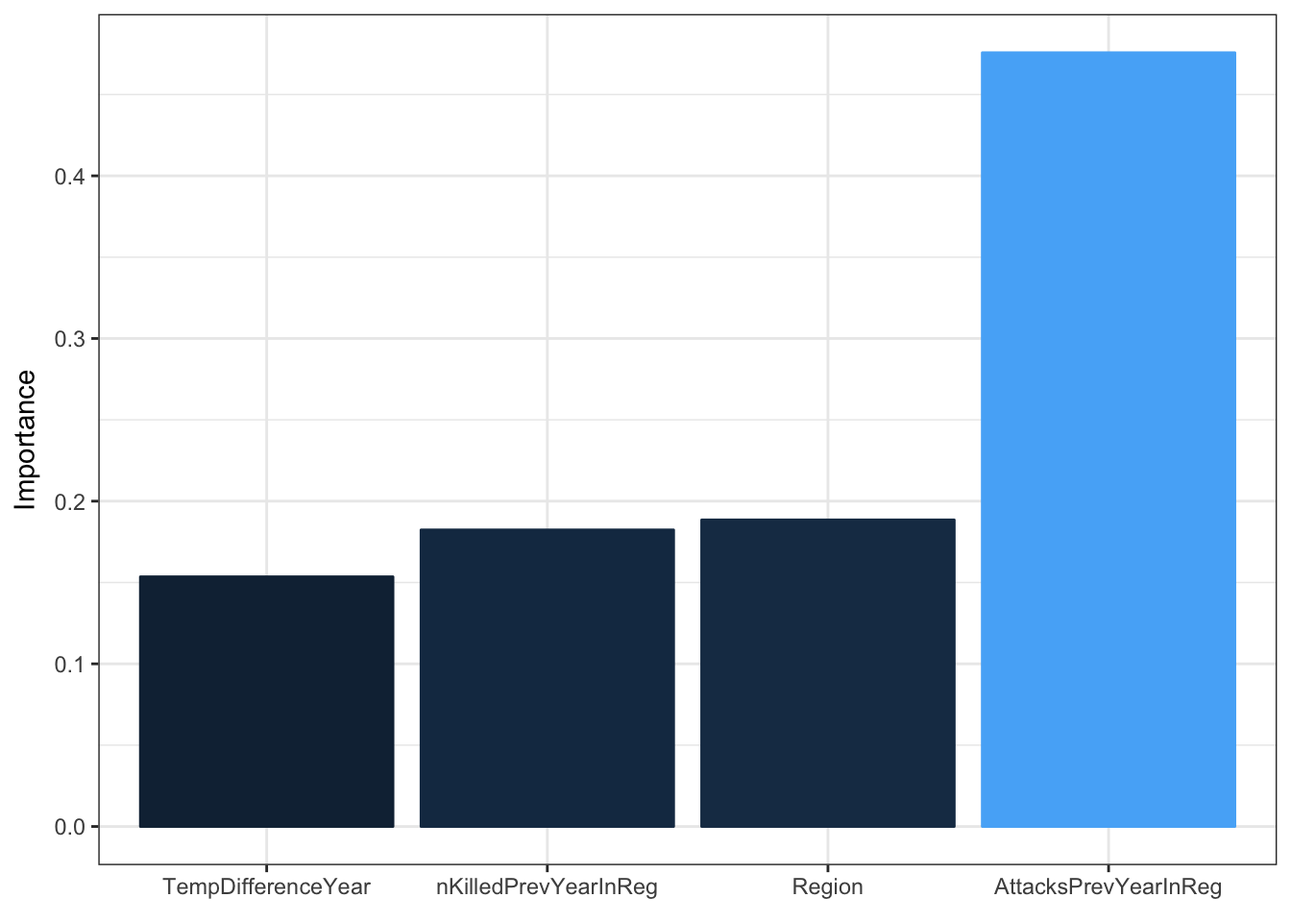
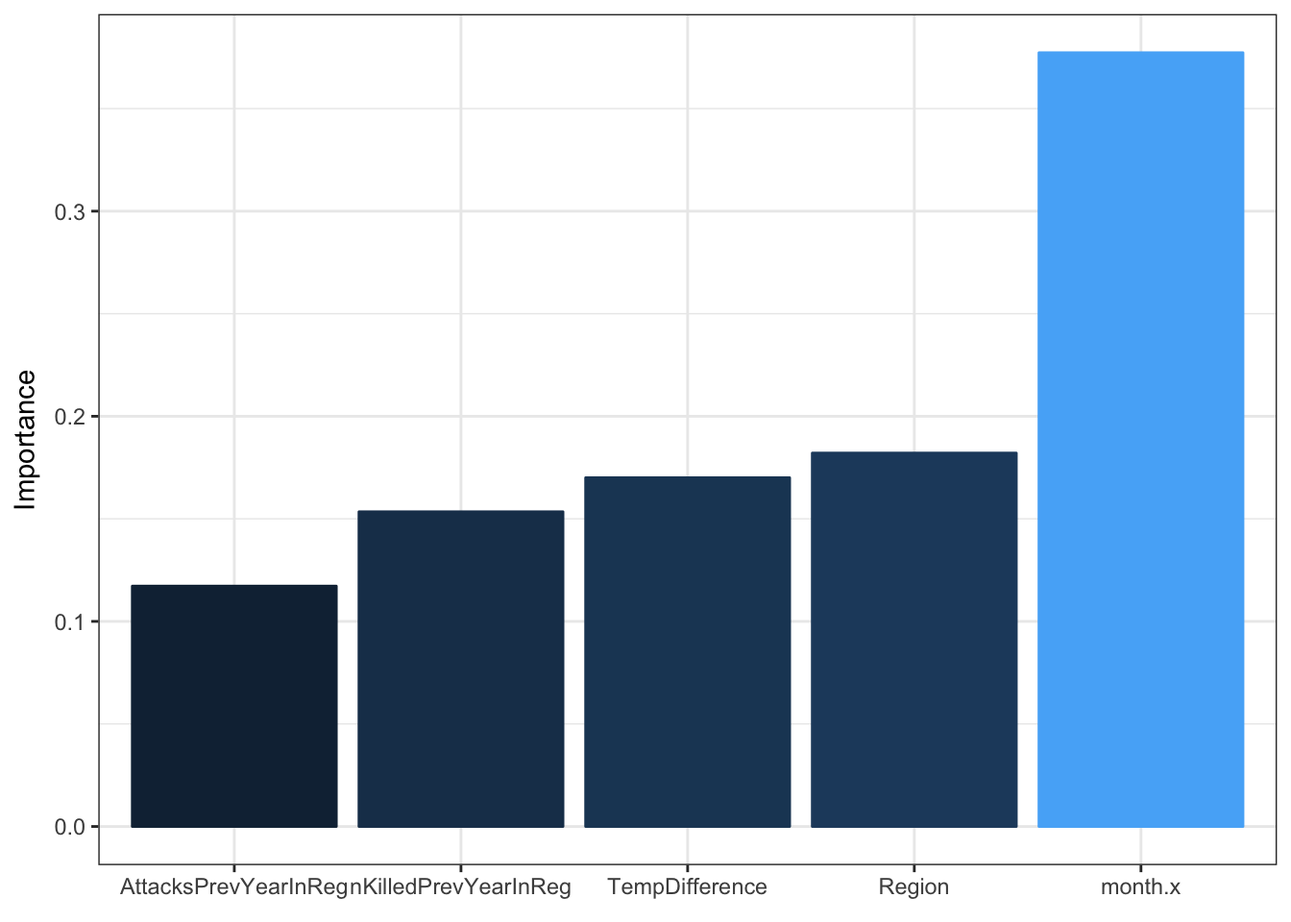
html update

diff --git a/MasterData.html b/MasterData.html
@@ -184,7 +184,7 @@ $(document).ready(function () {
     <div id="navbar" class="navbar-collapse collapse">
       <ul class="nav navbar-nav">
         <li>
-  <a href="index.html">About</a>
+  <a href="index.html">Project</a>
 </li>
 <li>
   <a href="MasterData.html">Analysis</a>
@@ -286,8 +286,8 @@ p1 &lt;- plot_geo(deathViz, locationmode = &#39;USA-states&#39;) %&gt;%
   )
  
 p1</code></pre>
-<div id="11a057c0f702f" style="width:672px;height:480px;" class="plotly html-widget"></div>
-<script type="application/json" data-for="11a057c0f702f">{"x":{"visdat":{"11a05d07d097":["function () ","plotlyVisDat"]},"cur_data":"11a05d07d097","attrs":{"11a05d07d097":{"locationmode":"USA-states","alpha":1,"sizes":[10,100],"z":{},"text":{},"locations":{},"color":{},"colors":"Reds"}},"layout":{"margin":{"b":40,"l":60,"t":25,"r":10},"mapType":"geo","scene":{"zaxis":{"title":"totalKilled"}},"geo":{"domain":{"x":[0,1],"y":[0,1]},"scope":"usa","projection":{"type":"albers usa"},"showlakes":true,"lakecolor":"rgba(255,255,255,1)"},"hovermode":"closest","showlegend":false,"legend":{"y":0.5,"yanchor":"top"},"title":"Deaths From Terrorist Attacks Since 1970"},"source":"A","config":{"modeBarButtonsToAdd":[{"name":"Collaborate","icon":{"width":1000,"ascent":500,"descent":-50,"path":"M487 375c7-10 9-23 5-36l-79-259c-3-12-11-23-22-31-11-8-22-12-35-12l-263 0c-15 0-29 5-43 15-13 10-23 23-28 37-5 13-5 25-1 37 0 0 0 3 1 7 1 5 1 8 1 11 0 2 0 4-1 6 0 3-1 5-1 6 1 2 2 4 3 6 1 2 2 4 4 6 2 3 4 5 5 7 5 7 9 16 13 26 4 10 7 19 9 26 0 2 0 5 0 9-1 4-1 6 0 8 0 2 2 5 4 8 3 3 5 5 5 7 4 6 8 15 12 26 4 11 7 19 7 26 1 1 0 4 0 9-1 4-1 7 0 8 1 2 3 5 6 8 4 4 6 6 6 7 4 5 8 13 13 24 4 11 7 20 7 28 1 1 0 4 0 7-1 3-1 6-1 7 0 2 1 4 3 6 1 1 3 4 5 6 2 3 3 5 5 6 1 2 3 5 4 9 2 3 3 7 5 10 1 3 2 6 4 10 2 4 4 7 6 9 2 3 4 5 7 7 3 2 7 3 11 3 3 0 8 0 13-1l0-1c7 2 12 2 14 2l218 0c14 0 25-5 32-16 8-10 10-23 6-37l-79-259c-7-22-13-37-20-43-7-7-19-10-37-10l-248 0c-5 0-9-2-11-5-2-3-2-7 0-12 4-13 18-20 41-20l264 0c5 0 10 2 16 5 5 3 8 6 10 11l85 282c2 5 2 10 2 17 7-3 13-7 17-13z m-304 0c-1-3-1-5 0-7 1-1 3-2 6-2l174 0c2 0 4 1 7 2 2 2 4 4 5 7l6 18c0 3 0 5-1 7-1 1-3 2-6 2l-173 0c-3 0-5-1-8-2-2-2-4-4-4-7z m-24-73c-1-3-1-5 0-7 2-2 3-2 6-2l174 0c2 0 5 0 7 2 3 2 4 4 5 7l6 18c1 2 0 5-1 6-1 2-3 3-5 3l-174 0c-3 0-5-1-7-3-3-1-4-4-5-6z"},"click":"function(gd) { \n        // is this being viewed in RStudio?\n        if (location.search == '?viewer_pane=1') {\n          alert('To learn about plotly for collaboration, visit:\\n https://cpsievert.github.io/plotly_book/plot-ly-for-collaboration.html');\n        } else {\n          window.open('https://cpsievert.github.io/plotly_book/plot-ly-for-collaboration.html', '_blank');\n        }\n      }"}],"cloud":false},"data":[{"colorbar":{"title":"Deaths","ticklen":2,"len":0.5,"y":1,"lenmode":"fraction","yanchor":"top"},"colorscale":[["0","rgba(255,245,240,1)"],["0.000354233085370174","rgba(255,245,240,1)"],["0.000708466170740347","rgba(255,245,240,1)"],["0.00141693234148069","rgba(255,245,240,1)"],["0.00177116542685087","rgba(255,245,240,1)"],["0.00212539851222104","rgba(255,245,239,1)"],["0.00247963159759122","rgba(255,245,239,1)"],["0.00283386468296139","rgba(255,245,239,1)"],["0.00318809776833156","rgba(255,244,239,1)"],["0.00389656393907191","rgba(255,244,239,1)"],["0.00425079702444208","rgba(255,244,239,1)"],["0.00637619553666312","rgba(255,244,238,1)"],["0.0152320226709175","rgba(255,242,236,1)"],["0.0226709174636911","rgba(255,241,235,1)"],["0.0602196245129295","rgba(255,235,225,1)"],["1","rgba(103,0,13,1)"]],"showscale":true,"locationmode":"USA-states","z":[5,4,2,79,21,2,0,17,64,7,0,6,4,0,4,0,18,0,8,12,5,2,1,2,0,1,6,0,11,0,2823,9,2,8,170,0,51,0,9,2,12,43,3,0,196,6,0,8,0],"text":["Alabama <br> Number Killed 5","Arizona <br> Number Killed 4","Arkansas <br> Number Killed 2","California <br> Number Killed 79","Colorado <br> Number Killed 21","Connecticut <br> Number Killed 2","Delaware <br> Number Killed 0","District of Columbia <br> Number Killed 17","Florida <br> Number Killed 64","Georgia <br> Number Killed 7","Idaho <br> Number Killed 0","Illinois <br> Number Killed 6","Indiana <br> Number Killed 4","Iowa <br> Number Killed 0","Kansas <br> Number Killed 4","Kentucky <br> Number Killed 0","Louisiana <br> Number Killed 18","Maine <br> Number Killed 0","Maryland <br> Number Killed 8","Massachusetts <br> Number Killed 12","Michigan <br> Number Killed 5","Minnesota <br> Number Killed 2","Mississippi <br> Number Killed 1","Missouri <br> Number Killed 2","Montana <br> Number Killed 0","Nebraska <br> Number Killed 1","Nevada <br> Number Killed 6","New Hampshire <br> Number Killed 0","New Jersey <br> Number Killed 11","New Mexico <br> Number Killed 0","New York <br> Number Killed 2823","North Carolina <br> Number Killed 9","North Dakota <br> Number Killed 2","Ohio <br> Number Killed 8","Oklahoma <br> Number Killed 170","Oregon <br> Number Killed 0","Pennsylvania <br> Number Killed 51","Rhode Island <br> Number Killed 0","South Carolina <br> Number Killed 9","South Dakota <br> Number Killed 2","Tennessee <br> Number Killed 12","Texas <br> Number Killed 43","Utah <br> Number Killed 3","Vermont <br> Number Killed 0","Virginia <br> Number Killed 196","Washington <br> Number Killed 6","West Virginia <br> Number Killed 0","Wisconsin <br> Number Killed 8","Wyoming <br> Number Killed 0"],"locations":["AL","AZ","AR","CA","CO","CT","DE",null,"FL","GA","ID","IL","IN","IA","KS","KY","LA","ME","MD","MA","MI","MN","MS","MO","MT","NE","NV","NH","NJ","NM","NY","NC","ND","OH","OK","OR","PA","RI","SC","SD","TN","TX","UT","VT","VA","WA","WV","WI","WY"],"type":"choropleth","geo":"geo","frame":null}],"highlight":{"on":"plotly_click","persistent":false,"dynamic":false,"selectize":false,"opacityDim":0.2,"selected":{"opacity":1}},"base_url":"https://plot.ly"},"evals":["config.modeBarButtonsToAdd.0.click"],"jsHooks":{"render":[{"code":"function(el, x) { var ctConfig = crosstalk.var('plotlyCrosstalkOpts').set({\"on\":\"plotly_click\",\"persistent\":false,\"dynamic\":false,\"selectize\":false,\"opacityDim\":0.2,\"selected\":{\"opacity\":1}}); }","data":null},{"code":"function(el, x) { var ctConfig = crosstalk.var('plotlyCrosstalkOpts').set({\"on\":\"plotly_click\",\"persistent\":false,\"dynamic\":false,\"selectize\":false,\"opacityDim\":0.2,\"selected\":{\"opacity\":1}}); }","data":null}]}}</script>
+<div id="2b34e7209cb" style="width:672px;height:480px;" class="plotly html-widget"></div>
+<script type="application/json" data-for="2b34e7209cb">{"x":{"visdat":{"2b33307f149":["function () ","plotlyVisDat"]},"cur_data":"2b33307f149","attrs":{"2b33307f149":{"locationmode":"USA-states","alpha":1,"sizes":[10,100],"z":{},"text":{},"locations":{},"color":{},"colors":"Reds"}},"layout":{"margin":{"b":40,"l":60,"t":25,"r":10},"mapType":"geo","scene":{"zaxis":{"title":"totalKilled"}},"geo":{"domain":{"x":[0,1],"y":[0,1]},"scope":"usa","projection":{"type":"albers usa"},"showlakes":true,"lakecolor":"rgba(255,255,255,1)"},"hovermode":"closest","showlegend":false,"legend":{"y":0.5,"yanchor":"top"},"title":"Deaths From Terrorist Attacks Since 1970"},"source":"A","config":{"modeBarButtonsToAdd":[{"name":"Collaborate","icon":{"width":1000,"ascent":500,"descent":-50,"path":"M487 375c7-10 9-23 5-36l-79-259c-3-12-11-23-22-31-11-8-22-12-35-12l-263 0c-15 0-29 5-43 15-13 10-23 23-28 37-5 13-5 25-1 37 0 0 0 3 1 7 1 5 1 8 1 11 0 2 0 4-1 6 0 3-1 5-1 6 1 2 2 4 3 6 1 2 2 4 4 6 2 3 4 5 5 7 5 7 9 16 13 26 4 10 7 19 9 26 0 2 0 5 0 9-1 4-1 6 0 8 0 2 2 5 4 8 3 3 5 5 5 7 4 6 8 15 12 26 4 11 7 19 7 26 1 1 0 4 0 9-1 4-1 7 0 8 1 2 3 5 6 8 4 4 6 6 6 7 4 5 8 13 13 24 4 11 7 20 7 28 1 1 0 4 0 7-1 3-1 6-1 7 0 2 1 4 3 6 1 1 3 4 5 6 2 3 3 5 5 6 1 2 3 5 4 9 2 3 3 7 5 10 1 3 2 6 4 10 2 4 4 7 6 9 2 3 4 5 7 7 3 2 7 3 11 3 3 0 8 0 13-1l0-1c7 2 12 2 14 2l218 0c14 0 25-5 32-16 8-10 10-23 6-37l-79-259c-7-22-13-37-20-43-7-7-19-10-37-10l-248 0c-5 0-9-2-11-5-2-3-2-7 0-12 4-13 18-20 41-20l264 0c5 0 10 2 16 5 5 3 8 6 10 11l85 282c2 5 2 10 2 17 7-3 13-7 17-13z m-304 0c-1-3-1-5 0-7 1-1 3-2 6-2l174 0c2 0 4 1 7 2 2 2 4 4 5 7l6 18c0 3 0 5-1 7-1 1-3 2-6 2l-173 0c-3 0-5-1-8-2-2-2-4-4-4-7z m-24-73c-1-3-1-5 0-7 2-2 3-2 6-2l174 0c2 0 5 0 7 2 3 2 4 4 5 7l6 18c1 2 0 5-1 6-1 2-3 3-5 3l-174 0c-3 0-5-1-7-3-3-1-4-4-5-6z"},"click":"function(gd) { \n        // is this being viewed in RStudio?\n        if (location.search == '?viewer_pane=1') {\n          alert('To learn about plotly for collaboration, visit:\\n https://cpsievert.github.io/plotly_book/plot-ly-for-collaboration.html');\n        } else {\n          window.open('https://cpsievert.github.io/plotly_book/plot-ly-for-collaboration.html', '_blank');\n        }\n      }"}],"cloud":false},"data":[{"colorbar":{"title":"Deaths","ticklen":2,"len":0.5,"y":1,"lenmode":"fraction","yanchor":"top"},"colorscale":[["0","rgba(255,245,240,1)"],["0.000354233085370174","rgba(255,245,240,1)"],["0.000708466170740347","rgba(255,245,240,1)"],["0.00141693234148069","rgba(255,245,240,1)"],["0.00177116542685087","rgba(255,245,240,1)"],["0.00212539851222104","rgba(255,245,239,1)"],["0.00247963159759122","rgba(255,245,239,1)"],["0.00283386468296139","rgba(255,245,239,1)"],["0.00318809776833156","rgba(255,244,239,1)"],["0.00389656393907191","rgba(255,244,239,1)"],["0.00425079702444208","rgba(255,244,239,1)"],["0.00637619553666312","rgba(255,244,238,1)"],["0.0152320226709175","rgba(255,242,236,1)"],["0.0226709174636911","rgba(255,241,235,1)"],["0.0602196245129295","rgba(255,235,225,1)"],["1","rgba(103,0,13,1)"]],"showscale":true,"locationmode":"USA-states","z":[5,4,2,79,21,2,0,17,64,7,0,6,4,0,4,0,18,0,8,12,5,2,1,2,0,1,6,0,11,0,2823,9,2,8,170,0,51,0,9,2,12,43,3,0,196,6,0,8,0],"text":["Alabama <br> Number Killed 5","Arizona <br> Number Killed 4","Arkansas <br> Number Killed 2","California <br> Number Killed 79","Colorado <br> Number Killed 21","Connecticut <br> Number Killed 2","Delaware <br> Number Killed 0","District of Columbia <br> Number Killed 17","Florida <br> Number Killed 64","Georgia <br> Number Killed 7","Idaho <br> Number Killed 0","Illinois <br> Number Killed 6","Indiana <br> Number Killed 4","Iowa <br> Number Killed 0","Kansas <br> Number Killed 4","Kentucky <br> Number Killed 0","Louisiana <br> Number Killed 18","Maine <br> Number Killed 0","Maryland <br> Number Killed 8","Massachusetts <br> Number Killed 12","Michigan <br> Number Killed 5","Minnesota <br> Number Killed 2","Mississippi <br> Number Killed 1","Missouri <br> Number Killed 2","Montana <br> Number Killed 0","Nebraska <br> Number Killed 1","Nevada <br> Number Killed 6","New Hampshire <br> Number Killed 0","New Jersey <br> Number Killed 11","New Mexico <br> Number Killed 0","New York <br> Number Killed 2823","North Carolina <br> Number Killed 9","North Dakota <br> Number Killed 2","Ohio <br> Number Killed 8","Oklahoma <br> Number Killed 170","Oregon <br> Number Killed 0","Pennsylvania <br> Number Killed 51","Rhode Island <br> Number Killed 0","South Carolina <br> Number Killed 9","South Dakota <br> Number Killed 2","Tennessee <br> Number Killed 12","Texas <br> Number Killed 43","Utah <br> Number Killed 3","Vermont <br> Number Killed 0","Virginia <br> Number Killed 196","Washington <br> Number Killed 6","West Virginia <br> Number Killed 0","Wisconsin <br> Number Killed 8","Wyoming <br> Number Killed 0"],"locations":["AL","AZ","AR","CA","CO","CT","DE",null,"FL","GA","ID","IL","IN","IA","KS","KY","LA","ME","MD","MA","MI","MN","MS","MO","MT","NE","NV","NH","NJ","NM","NY","NC","ND","OH","OK","OR","PA","RI","SC","SD","TN","TX","UT","VT","VA","WA","WV","WI","WY"],"type":"choropleth","geo":"geo","frame":null}],"highlight":{"on":"plotly_click","persistent":false,"dynamic":false,"selectize":false,"opacityDim":0.2,"selected":{"opacity":1}},"base_url":"https://plot.ly"},"evals":["config.modeBarButtonsToAdd.0.click"],"jsHooks":{"render":[{"code":"function(el, x) { var ctConfig = crosstalk.var('plotlyCrosstalkOpts').set({\"on\":\"plotly_click\",\"persistent\":false,\"dynamic\":false,\"selectize\":false,\"opacityDim\":0.2,\"selected\":{\"opacity\":1}}); }","data":null},{"code":"function(el, x) { var ctConfig = crosstalk.var('plotlyCrosstalkOpts').set({\"on\":\"plotly_click\",\"persistent\":false,\"dynamic\":false,\"selectize\":false,\"opacityDim\":0.2,\"selected\":{\"opacity\":1}}); }","data":null}]}}</script>
 <pre class="r"><code>deathVizNoNy &lt;- usaTerrorismData %&gt;%                         # Create dataset to visualize          
   filter(provstate != &quot;Puerto Rico&quot;) %&gt;%                     # Remove Puerto Rico
   filter(provstate != &quot;Alaska&quot;) %&gt;%                          # Remove Alaska
@@ -315,8 +315,8 @@ p2 &lt;- plot_geo(deathVizNoNy, locationmode = &#39;USA-states&#39;) %&gt;%
   )
  
 p2</code></pre>
-<div id="11a05401ff43c" style="width:672px;height:480px;" class="plotly html-widget"></div>
-<script type="application/json" data-for="11a05401ff43c">{"x":{"visdat":{"11a0543ec142a":["function () ","plotlyVisDat"]},"cur_data":"11a0543ec142a","attrs":{"11a0543ec142a":{"locationmode":"USA-states","alpha":1,"sizes":[10,100],"z":{},"text":{},"locations":{},"color":{},"colors":"Reds"}},"layout":{"margin":{"b":40,"l":60,"t":25,"r":10},"mapType":"geo","scene":{"zaxis":{"title":"totalKilled"}},"geo":{"domain":{"x":[0,1],"y":[0,1]},"scope":"usa","projection":{"type":"albers usa"},"showlakes":true,"lakecolor":"rgba(255,255,255,1)"},"hovermode":"closest","showlegend":false,"legend":{"y":0.5,"yanchor":"top"},"title":"Deaths From Terrorist Attacks Since 1970 Excluding New York"},"source":"A","config":{"modeBarButtonsToAdd":[{"name":"Collaborate","icon":{"width":1000,"ascent":500,"descent":-50,"path":"M487 375c7-10 9-23 5-36l-79-259c-3-12-11-23-22-31-11-8-22-12-35-12l-263 0c-15 0-29 5-43 15-13 10-23 23-28 37-5 13-5 25-1 37 0 0 0 3 1 7 1 5 1 8 1 11 0 2 0 4-1 6 0 3-1 5-1 6 1 2 2 4 3 6 1 2 2 4 4 6 2 3 4 5 5 7 5 7 9 16 13 26 4 10 7 19 9 26 0 2 0 5 0 9-1 4-1 6 0 8 0 2 2 5 4 8 3 3 5 5 5 7 4 6 8 15 12 26 4 11 7 19 7 26 1 1 0 4 0 9-1 4-1 7 0 8 1 2 3 5 6 8 4 4 6 6 6 7 4 5 8 13 13 24 4 11 7 20 7 28 1 1 0 4 0 7-1 3-1 6-1 7 0 2 1 4 3 6 1 1 3 4 5 6 2 3 3 5 5 6 1 2 3 5 4 9 2 3 3 7 5 10 1 3 2 6 4 10 2 4 4 7 6 9 2 3 4 5 7 7 3 2 7 3 11 3 3 0 8 0 13-1l0-1c7 2 12 2 14 2l218 0c14 0 25-5 32-16 8-10 10-23 6-37l-79-259c-7-22-13-37-20-43-7-7-19-10-37-10l-248 0c-5 0-9-2-11-5-2-3-2-7 0-12 4-13 18-20 41-20l264 0c5 0 10 2 16 5 5 3 8 6 10 11l85 282c2 5 2 10 2 17 7-3 13-7 17-13z m-304 0c-1-3-1-5 0-7 1-1 3-2 6-2l174 0c2 0 4 1 7 2 2 2 4 4 5 7l6 18c0 3 0 5-1 7-1 1-3 2-6 2l-173 0c-3 0-5-1-8-2-2-2-4-4-4-7z m-24-73c-1-3-1-5 0-7 2-2 3-2 6-2l174 0c2 0 5 0 7 2 3 2 4 4 5 7l6 18c1 2 0 5-1 6-1 2-3 3-5 3l-174 0c-3 0-5-1-7-3-3-1-4-4-5-6z"},"click":"function(gd) { \n        // is this being viewed in RStudio?\n        if (location.search == '?viewer_pane=1') {\n          alert('To learn about plotly for collaboration, visit:\\n https://cpsievert.github.io/plotly_book/plot-ly-for-collaboration.html');\n        } else {\n          window.open('https://cpsievert.github.io/plotly_book/plot-ly-for-collaboration.html', '_blank');\n        }\n      }"}],"cloud":false},"data":[{"colorbar":{"title":"Deaths","ticklen":2,"len":0.5,"y":1,"lenmode":"fraction","yanchor":"top"},"colorscale":[["0","rgba(255,245,240,1)"],["0.00510204081632653","rgba(255,244,239,1)"],["0.0102040816326531","rgba(255,243,238,1)"],["0.0180697278911565","rgba(255,242,236,1)"],["0.0204081632653061","rgba(255,242,235,1)"],["0.0255102040816327","rgba(255,241,234,1)"],["0.0306122448979592","rgba(255,240,233,1)"],["0.0325255102040816","rgba(255,240,232,1)"],["0.0408163265306122","rgba(255,238,230,1)"],["0.0423044217687075","rgba(255,238,230,1)"],["0.048469387755102","rgba(255,237,228,1)"],["0.0612244897959184","rgba(255,235,225,1)"],["0.0875850340136054","rgba(254,230,219,1)"],["0.121173469387755","rgba(254,225,211,1)"],["0.265731292517007","rgba(252,182,155,1)"],["0.422406462585033","rgba(252,131,99,1)"],["1","rgba(103,0,13,1)"]],"showscale":true,"locationmode":"USA-states","z":[5,4,2,79,21,2,0,17,64,7,0,6,4,0,4,0,18,0,8,12,5,2,1,2,0,1,6,0,11,0,9,2,8,170,0,51,0,9,2,12,43,3,0,196,6,0,8,0],"text":["Alabama <br> Number Killed 5","Arizona <br> Number Killed 4","Arkansas <br> Number Killed 2","California <br> Number Killed 79","Colorado <br> Number Killed 21","Connecticut <br> Number Killed 2","Delaware <br> Number Killed 0","District of Columbia <br> Number Killed 17","Florida <br> Number Killed 64","Georgia <br> Number Killed 7","Idaho <br> Number Killed 0","Illinois <br> Number Killed 6","Indiana <br> Number Killed 4","Iowa <br> Number Killed 0","Kansas <br> Number Killed 4","Kentucky <br> Number Killed 0","Louisiana <br> Number Killed 18","Maine <br> Number Killed 0","Maryland <br> Number Killed 8","Massachusetts <br> Number Killed 12","Michigan <br> Number Killed 5","Minnesota <br> Number Killed 2","Mississippi <br> Number Killed 1","Missouri <br> Number Killed 2","Montana <br> Number Killed 0","Nebraska <br> Number Killed 1","Nevada <br> Number Killed 6","New Hampshire <br> Number Killed 0","New Jersey <br> Number Killed 11","New Mexico <br> Number Killed 0","North Carolina <br> Number Killed 9","North Dakota <br> Number Killed 2","Ohio <br> Number Killed 8","Oklahoma <br> Number Killed 170","Oregon <br> Number Killed 0","Pennsylvania <br> Number Killed 51","Rhode Island <br> Number Killed 0","South Carolina <br> Number Killed 9","South Dakota <br> Number Killed 2","Tennessee <br> Number Killed 12","Texas <br> Number Killed 43","Utah <br> Number Killed 3","Vermont <br> Number Killed 0","Virginia <br> Number Killed 196","Washington <br> Number Killed 6","West Virginia <br> Number Killed 0","Wisconsin <br> Number Killed 8","Wyoming <br> Number Killed 0"],"locations":["AL","AZ","AR","CA","CO","CT","DE",null,"FL","GA","ID","IL","IN","IA","KS","KY","LA","ME","MD","MA","MI","MN","MS","MO","MT","NE","NV","NH","NJ","NM","NC","ND","OH","OK","OR","PA","RI","SC","SD","TN","TX","UT","VT","VA","WA","WV","WI","WY"],"type":"choropleth","geo":"geo","frame":null}],"highlight":{"on":"plotly_click","persistent":false,"dynamic":false,"selectize":false,"opacityDim":0.2,"selected":{"opacity":1}},"base_url":"https://plot.ly"},"evals":["config.modeBarButtonsToAdd.0.click"],"jsHooks":{"render":[{"code":"function(el, x) { var ctConfig = crosstalk.var('plotlyCrosstalkOpts').set({\"on\":\"plotly_click\",\"persistent\":false,\"dynamic\":false,\"selectize\":false,\"opacityDim\":0.2,\"selected\":{\"opacity\":1}}); }","data":null},{"code":"function(el, x) { var ctConfig = crosstalk.var('plotlyCrosstalkOpts').set({\"on\":\"plotly_click\",\"persistent\":false,\"dynamic\":false,\"selectize\":false,\"opacityDim\":0.2,\"selected\":{\"opacity\":1}}); }","data":null}]}}</script>
+<div id="2b3508f2368" style="width:672px;height:480px;" class="plotly html-widget"></div>
+<script type="application/json" data-for="2b3508f2368">{"x":{"visdat":{"2b345acc074":["function () ","plotlyVisDat"]},"cur_data":"2b345acc074","attrs":{"2b345acc074":{"locationmode":"USA-states","alpha":1,"sizes":[10,100],"z":{},"text":{},"locations":{},"color":{},"colors":"Reds"}},"layout":{"margin":{"b":40,"l":60,"t":25,"r":10},"mapType":"geo","scene":{"zaxis":{"title":"totalKilled"}},"geo":{"domain":{"x":[0,1],"y":[0,1]},"scope":"usa","projection":{"type":"albers usa"},"showlakes":true,"lakecolor":"rgba(255,255,255,1)"},"hovermode":"closest","showlegend":false,"legend":{"y":0.5,"yanchor":"top"},"title":"Deaths From Terrorist Attacks Since 1970 Excluding New York"},"source":"A","config":{"modeBarButtonsToAdd":[{"name":"Collaborate","icon":{"width":1000,"ascent":500,"descent":-50,"path":"M487 375c7-10 9-23 5-36l-79-259c-3-12-11-23-22-31-11-8-22-12-35-12l-263 0c-15 0-29 5-43 15-13 10-23 23-28 37-5 13-5 25-1 37 0 0 0 3 1 7 1 5 1 8 1 11 0 2 0 4-1 6 0 3-1 5-1 6 1 2 2 4 3 6 1 2 2 4 4 6 2 3 4 5 5 7 5 7 9 16 13 26 4 10 7 19 9 26 0 2 0 5 0 9-1 4-1 6 0 8 0 2 2 5 4 8 3 3 5 5 5 7 4 6 8 15 12 26 4 11 7 19 7 26 1 1 0 4 0 9-1 4-1 7 0 8 1 2 3 5 6 8 4 4 6 6 6 7 4 5 8 13 13 24 4 11 7 20 7 28 1 1 0 4 0 7-1 3-1 6-1 7 0 2 1 4 3 6 1 1 3 4 5 6 2 3 3 5 5 6 1 2 3 5 4 9 2 3 3 7 5 10 1 3 2 6 4 10 2 4 4 7 6 9 2 3 4 5 7 7 3 2 7 3 11 3 3 0 8 0 13-1l0-1c7 2 12 2 14 2l218 0c14 0 25-5 32-16 8-10 10-23 6-37l-79-259c-7-22-13-37-20-43-7-7-19-10-37-10l-248 0c-5 0-9-2-11-5-2-3-2-7 0-12 4-13 18-20 41-20l264 0c5 0 10 2 16 5 5 3 8 6 10 11l85 282c2 5 2 10 2 17 7-3 13-7 17-13z m-304 0c-1-3-1-5 0-7 1-1 3-2 6-2l174 0c2 0 4 1 7 2 2 2 4 4 5 7l6 18c0 3 0 5-1 7-1 1-3 2-6 2l-173 0c-3 0-5-1-8-2-2-2-4-4-4-7z m-24-73c-1-3-1-5 0-7 2-2 3-2 6-2l174 0c2 0 5 0 7 2 3 2 4 4 5 7l6 18c1 2 0 5-1 6-1 2-3 3-5 3l-174 0c-3 0-5-1-7-3-3-1-4-4-5-6z"},"click":"function(gd) { \n        // is this being viewed in RStudio?\n        if (location.search == '?viewer_pane=1') {\n          alert('To learn about plotly for collaboration, visit:\\n https://cpsievert.github.io/plotly_book/plot-ly-for-collaboration.html');\n        } else {\n          window.open('https://cpsievert.github.io/plotly_book/plot-ly-for-collaboration.html', '_blank');\n        }\n      }"}],"cloud":false},"data":[{"colorbar":{"title":"Deaths","ticklen":2,"len":0.5,"y":1,"lenmode":"fraction","yanchor":"top"},"colorscale":[["0","rgba(255,245,240,1)"],["0.00510204081632653","rgba(255,244,239,1)"],["0.0102040816326531","rgba(255,243,238,1)"],["0.0180697278911565","rgba(255,242,236,1)"],["0.0204081632653061","rgba(255,242,235,1)"],["0.0255102040816327","rgba(255,241,234,1)"],["0.0306122448979592","rgba(255,240,233,1)"],["0.0325255102040816","rgba(255,240,232,1)"],["0.0408163265306122","rgba(255,238,230,1)"],["0.0423044217687075","rgba(255,238,230,1)"],["0.048469387755102","rgba(255,237,228,1)"],["0.0612244897959184","rgba(255,235,225,1)"],["0.0875850340136054","rgba(254,230,219,1)"],["0.121173469387755","rgba(254,225,211,1)"],["0.265731292517007","rgba(252,182,155,1)"],["0.422406462585033","rgba(252,131,99,1)"],["1","rgba(103,0,13,1)"]],"showscale":true,"locationmode":"USA-states","z":[5,4,2,79,21,2,0,17,64,7,0,6,4,0,4,0,18,0,8,12,5,2,1,2,0,1,6,0,11,0,9,2,8,170,0,51,0,9,2,12,43,3,0,196,6,0,8,0],"text":["Alabama <br> Number Killed 5","Arizona <br> Number Killed 4","Arkansas <br> Number Killed 2","California <br> Number Killed 79","Colorado <br> Number Killed 21","Connecticut <br> Number Killed 2","Delaware <br> Number Killed 0","District of Columbia <br> Number Killed 17","Florida <br> Number Killed 64","Georgia <br> Number Killed 7","Idaho <br> Number Killed 0","Illinois <br> Number Killed 6","Indiana <br> Number Killed 4","Iowa <br> Number Killed 0","Kansas <br> Number Killed 4","Kentucky <br> Number Killed 0","Louisiana <br> Number Killed 18","Maine <br> Number Killed 0","Maryland <br> Number Killed 8","Massachusetts <br> Number Killed 12","Michigan <br> Number Killed 5","Minnesota <br> Number Killed 2","Mississippi <br> Number Killed 1","Missouri <br> Number Killed 2","Montana <br> Number Killed 0","Nebraska <br> Number Killed 1","Nevada <br> Number Killed 6","New Hampshire <br> Number Killed 0","New Jersey <br> Number Killed 11","New Mexico <br> Number Killed 0","North Carolina <br> Number Killed 9","North Dakota <br> Number Killed 2","Ohio <br> Number Killed 8","Oklahoma <br> Number Killed 170","Oregon <br> Number Killed 0","Pennsylvania <br> Number Killed 51","Rhode Island <br> Number Killed 0","South Carolina <br> Number Killed 9","South Dakota <br> Number Killed 2","Tennessee <br> Number Killed 12","Texas <br> Number Killed 43","Utah <br> Number Killed 3","Vermont <br> Number Killed 0","Virginia <br> Number Killed 196","Washington <br> Number Killed 6","West Virginia <br> Number Killed 0","Wisconsin <br> Number Killed 8","Wyoming <br> Number Killed 0"],"locations":["AL","AZ","AR","CA","CO","CT","DE",null,"FL","GA","ID","IL","IN","IA","KS","KY","LA","ME","MD","MA","MI","MN","MS","MO","MT","NE","NV","NH","NJ","NM","NC","ND","OH","OK","OR","PA","RI","SC","SD","TN","TX","UT","VT","VA","WA","WV","WI","WY"],"type":"choropleth","geo":"geo","frame":null}],"highlight":{"on":"plotly_click","persistent":false,"dynamic":false,"selectize":false,"opacityDim":0.2,"selected":{"opacity":1}},"base_url":"https://plot.ly"},"evals":["config.modeBarButtonsToAdd.0.click"],"jsHooks":{"render":[{"code":"function(el, x) { var ctConfig = crosstalk.var('plotlyCrosstalkOpts').set({\"on\":\"plotly_click\",\"persistent\":false,\"dynamic\":false,\"selectize\":false,\"opacityDim\":0.2,\"selected\":{\"opacity\":1}}); }","data":null},{"code":"function(el, x) { var ctConfig = crosstalk.var('plotlyCrosstalkOpts').set({\"on\":\"plotly_click\",\"persistent\":false,\"dynamic\":false,\"selectize\":false,\"opacityDim\":0.2,\"selected\":{\"opacity\":1}}); }","data":null}]}}</script>
 <p>Now we will make an even more interactive visualization</p>
 <pre class="r"><code>interactiveViz &lt;- usaTerrorismData %&gt;%                        # Create dataset to visualize          
   filter(provstate != &quot;Puerto Rico&quot;) %&gt;%                     # Remove Puerto Rico
@@ -399,6 +399,13 @@ server &lt;- function(input, output, session) {
 
 shinyApp(ui, server)</code></pre>
 <div style="width: 100% ; height: 400px ; text-align: center; box-sizing: border-box; -moz-box-sizing: border-box; -webkit-box-sizing: border-box;" class="muted well">Shiny applications not supported in static R Markdown documents</div>
+<html>
+	<body>
+		<div>
+			<iframe id="example1" src="https://gallery.shinyapps.io/goog-trend-index/" style="border: none; width: 100%; height: 850px" frameborder="0"></iframe>
+		</div>
+	</body>
+<html>
 <p>Now we must clean our master data for a neural network. This includes filtering out insignificant or unnecessary variables (both categorical and some numerical). We must also check to make sure our data frame contains no missing (na) values.</p>
 <pre class="r"><code>## First check to make sure we do not have any missing values in our data frame.
 ## Uncomment below to run and display the check.
@@ -431,6 +438,25 @@ neuralNet &lt;-neuralnet(isAttack~month.x+Region+TempDifference+
 plot(neuralNet)                                                                ## Plot the neural network
 
 plot.nnet(neuralNet, cex.val = 0.5)                                            ## Plot the neural network with a nicer library</code></pre>
+<pre><code>## Loading required package: scales</code></pre>
+<pre><code>## Loading required package: reshape</code></pre>
+<pre><code>## 
+## Attaching package: &#39;reshape&#39;</code></pre>
+<pre><code>## The following object is masked from &#39;package:plotly&#39;:
+## 
+##     rename</code></pre>
+<pre><code>## The following objects are masked from &#39;package:tidyr&#39;:
+## 
+##     expand, smiths</code></pre>
+<pre><code>## The following object is masked from &#39;package:dplyr&#39;:
+## 
+##     rename</code></pre>
+<pre><code>## The following objects are masked from &#39;package:plyr&#39;:
+## 
+##     rename, round_any</code></pre>
+<pre><code>## The following object is masked from &#39;package:lubridate&#39;:
+## 
+##     stamp</code></pre>
 <p>Assess the neural network:</p>
 <pre class="r"><code>predictTestNN &lt;- compute(neuralNet, testNNData[c(&quot;month.x&quot;, &quot;Region&quot;, 
                                                  &quot;TempDifference&quot;, 
@@ -449,26 +475,8 @@ head(results)                                                                  #
 ## 6      0 0.006093440025</code></pre>
 <pre class="r"><code>roundedresults&lt;-sapply(results,round,digits=0)
 roundedresultsdf&lt;-data.frame(roundedresults)
-attach(roundedresultsdf)</code></pre>
-<pre><code>## The following objects are masked from roundedresultsdf (pos = 3):
-## 
-##     actual, prediction</code></pre>
-<pre><code>## The following objects are masked from roundedresultsdf (pos = 4):
-## 
-##     actual, prediction</code></pre>
-<pre><code>## The following objects are masked from roundedresultsdf (pos = 5):
-## 
-##     actual, prediction</code></pre>
-<pre><code>## The following objects are masked from roundedresultsdf (pos = 6):
-## 
-##     actual, prediction</code></pre>
-<pre><code>## The following objects are masked from roundedresultsdf (pos = 7):
-## 
-##     actual, prediction</code></pre>
-<pre><code>## The following objects are masked from roundedresultsdf (pos = 8):
-## 
-##     actual, prediction</code></pre>
-<pre class="r"><code>table(actual, prediction)                                                      ## Table of predictions v actual</code></pre>
+attach(roundedresultsdf)
+table(actual, prediction)                                                      ## Table of predictions v actual</code></pre>
 <pre><code>##       prediction
 ## actual      0
 ##      0 131908
@@ -482,7 +490,7 @@ attach(roundedresultsdf)</code></pre>
 ## 1      0     0.008604871126
 ## 2      1     0.012810080939</code></pre>
 <pre class="r"><code>garson(neuralNet)                                                              ## Plot variable importance</code></pre>
-<p><img src="MasterData_files/figure-html/unnamed-chunk-10-1.png" width="672" /></p>
+<p><img src="MasterData_files/figure-html/unnamed-chunk-11-1.png" width="672" /></p>
 <p>That did alright, but now let’s try to predict whether a terrorist attack is going to happen in a given year, rather than a given day in a region. This is going to require a bit of data re-wrangling to get the appropriate explanatory variables.</p>
 <pre class="r"><code># want additional isAttackYear, TempDifferenceYear
 mergedTempTerrorismDataYear &lt;- mergedTempTerrorismData %&gt;%
@@ -556,24 +564,6 @@ attach(roundedresultsdf)</code></pre>
 <pre><code>## The following objects are masked from roundedresultsdf (pos = 3):
 ## 
 ##     actual, prediction</code></pre>
-<pre><code>## The following objects are masked from roundedresultsdf (pos = 4):
-## 
-##     actual, prediction</code></pre>
-<pre><code>## The following objects are masked from roundedresultsdf (pos = 5):
-## 
-##     actual, prediction</code></pre>
-<pre><code>## The following objects are masked from roundedresultsdf (pos = 6):
-## 
-##     actual, prediction</code></pre>
-<pre><code>## The following objects are masked from roundedresultsdf (pos = 7):
-## 
-##     actual, prediction</code></pre>
-<pre><code>## The following objects are masked from roundedresultsdf (pos = 8):
-## 
-##     actual, prediction</code></pre>
-<pre><code>## The following objects are masked from roundedresultsdf (pos = 9):
-## 
-##     actual, prediction</code></pre>
 <pre class="r"><code>table(actual, prediction)                                                      ## Table of predictions v actual</code></pre>
 <pre><code>##       prediction
 ## actual   0   1
@@ -588,7 +578,7 @@ attach(roundedresultsdf)</code></pre>
 ## 1      0       0.3649511678
 ## 2      1       0.4981493106</code></pre>
 <pre class="r"><code>garson(neuralNetYear)                                                          ## Plot variable importance</code></pre>
-<p><img src="MasterData_files/figure-html/unnamed-chunk-14-1.png" width="672" /></p>
+<p><img src="MasterData_files/figure-html/unnamed-chunk-15-1.png" width="672" /></p>
 </div>
 
 

diff --git a/index.html b/index.html
@@ -176,7 +176,7 @@ $(document).ready(function () {
     <div id="navbar" class="navbar-collapse collapse">
       <ul class="nav navbar-nav">
         <li>
-  <a href="index.html">About</a>
+  <a href="index.html">Project</a>
 </li>
 <li>
   <a href="MasterData.html">Analysis</a>
@@ -201,8 +201,8 @@ $(document).ready(function () {
 </div>
 
 
-<div id="extreme-weather-and-terrorism-forecasting" class="section level2">
-<h2>Extreme Weather and Terrorism Forecasting</h2>
+<div id="project" class="section level3">
+<h3>Project</h3>
 <p>When our world’s climate turns for the worst, does it become deadly? In October of 2015, speaking at the Universal Exhibition in Milan, John Kerry stated that “I’m not telling you that the crisis in Syria was caused by climate change, but the devastating drought clearly made a bad situation a lot worse.” Was Kerry right? Or was the parallel of crisis and drought a mere consequence?</p>
 <p>We want to explore if climate change, droughts, flooding, monsoons, or other extreme weather patterns can forecast the likelihood of terrorist activity in certain areas around the world. Training and testing a model on weather and terrorist data from the last 40+ years will hopefully shed light on where and when the next large terrorist attack is likely to happen.</p>
 

diff --git a/AboutUs.html b/AboutUs.html
@@ -176,7 +176,7 @@ $(document).ready(function () {
     <div id="navbar" class="navbar-collapse collapse">
       <ul class="nav navbar-nav">
         <li>
-  <a href="index.html">About</a>
+  <a href="index.html">Project</a>
 </li>
 <li>
   <a href="MasterData.html">Analysis</a>
@@ -210,7 +210,8 @@ $(document).ready(function () {
 <div id="connor-ford" class="section level4">
 <h4>Connor Ford</h4>
 <p>Connor ’20 is a mathematics and computer science double major. His interests outside of studies include pine trees, dogs, and watching Leroy Sane.</p>
-<p>contact: <a href="mailto:connorford2016@gmail.com">connorford2016@gmail.com</a> gh: <a href="https://github.com/fordc5" class="uri">https://github.com/fordc5</a></p>
+<p>contact: <a href="mailto:connorford2016@gmail.com">connorford2016@gmail.com</a></p>
+<p>gh: <a href="https://github.com/fordc5" class="uri">https://github.com/fordc5</a></p>
 </div>
 
 

diff --git a/README.html b/README.html
@@ -176,7 +176,7 @@ $(document).ready(function () {
     <div id="navbar" class="navbar-collapse collapse">
       <ul class="nav navbar-nav">
         <li>
-  <a href="index.html">About</a>
+  <a href="index.html">Project</a>
 </li>
 <li>
   <a href="MasterData.html">Analysis</a>

diff --git a/shiny.html b/shiny.html
@@ -1,0 +1,7 @@
+<html>
+	<body>
+		<div>
+			<iframe id="example1" src="https://gallery.shinyapps.io/goog-trend-index/" style="border: none; width: 100%; height: 850px" frameborder="0"></iframe>
+		</div>
+	</body>
+<html>
